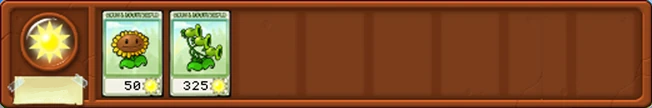
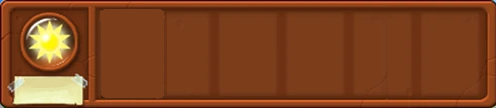
ajustada posiciones de las semillas

Changed region(s): [[0.0, 0.0, 0.3629, 1.0], [0.9677, 0.0, 1.0, 1.0]]

diff --git a/funciones.py b/funciones.py
@@ -35,12 +35,12 @@ def iniciar_administrador_sonido():
     return administrador_de_sonido
 
 def definir_semillas(administrador_de_sonido):
-    s_girasol = cl.Semillas(380, 10, r"assets\semillas\semillas_girasol.png", administrador_de_sonido, "girasol", 50)
-    s_lanzaguisantes = cl.Semillas(440, 10, r"assets//semillas//semillas_lanzaguisantes.png", administrador_de_sonido, "lanzaguisantes", 100)
-    s_nuez = cl.Semillas(500, 10, r"assets//semillas//semillas_nuez.png", administrador_de_sonido, "nuez", 50)
-    s_petacereza = cl.Semillas(560,10,r"assets\semillas\semilla_petacereza.png",administrador_de_sonido, "petacereza", 150)
-    s_papapum = cl.Semillas(620, 10, r"assets\papapum\semilla_papapum_.png", administrador_de_sonido, "papapum", 25)
-    s_hielaguisantes = cl.Semillas(680, 10, r"assets//semillas//semillas_hielaguisantes.png", administrador_de_sonido, "hielaguisantes", 175)
+    s_girasol = cl.Semillas(413, 10, r"assets\semillas\semillas_girasol.png", administrador_de_sonido, "girasol", 50)
+    s_lanzaguisantes = cl.Semillas(476, 10, r"assets//semillas//semillas_lanzaguisantes.png", administrador_de_sonido, "lanzaguisantes", 100)
+    s_nuez = cl.Semillas(539, 10, r"assets//semillas//semillas_nuez.png", administrador_de_sonido, "nuez", 50)
+    s_petacereza = cl.Semillas(602,10,r"assets\semillas\semilla_petacereza.png",administrador_de_sonido, "petacereza", 150)
+    s_papapum = cl.Semillas(665, 10, r"assets\papapum\semilla_papapum_.png", administrador_de_sonido, "papapum", 25)
+    s_hielaguisantes = cl.Semillas(728, 10, r"assets//semillas//semillas_hielaguisantes.png", administrador_de_sonido, "hielaguisantes", 175)
     s_lanzaguisantes.add(cl.grupo_semillas)
     s_girasol.add(cl.grupo_semillas)
     s_nuez.add(cl.grupo_semillas)
@@ -71,7 +71,7 @@ def dibujos_constantes(screen):
     cl.grupo_zombies.draw(screen)
     cl.grupo_proyectiles.draw(screen)
     cl.grupo_sol.draw(screen)
-    screen.blit(barra, (300, 0))
+    screen.blit(barra, (310, 0))
     cl.grupo_semillas.draw(screen)
     cl.grupo_pala.draw(screen)
     cl.grupo_deplegables.draw(screen)

diff --git a/constantes.py b/constantes.py
@@ -19,7 +19,7 @@ FIN_PASTO_Y = 570
 CELDA_ALTO = 90
 CELDA_ANCHO = 78
 
-LARGO_BARRA = 540
+LARGO_BARRA = 490
 ALTO_BARRA = 100
 DIF_POS_ZOMBIE = 55
 COLUMNAS_ZOMBIE = [COMIENZO_PASTO_Y + CELDA_ALTO * fil + DIF_POS_ZOMBIE for fil in range(5)]
